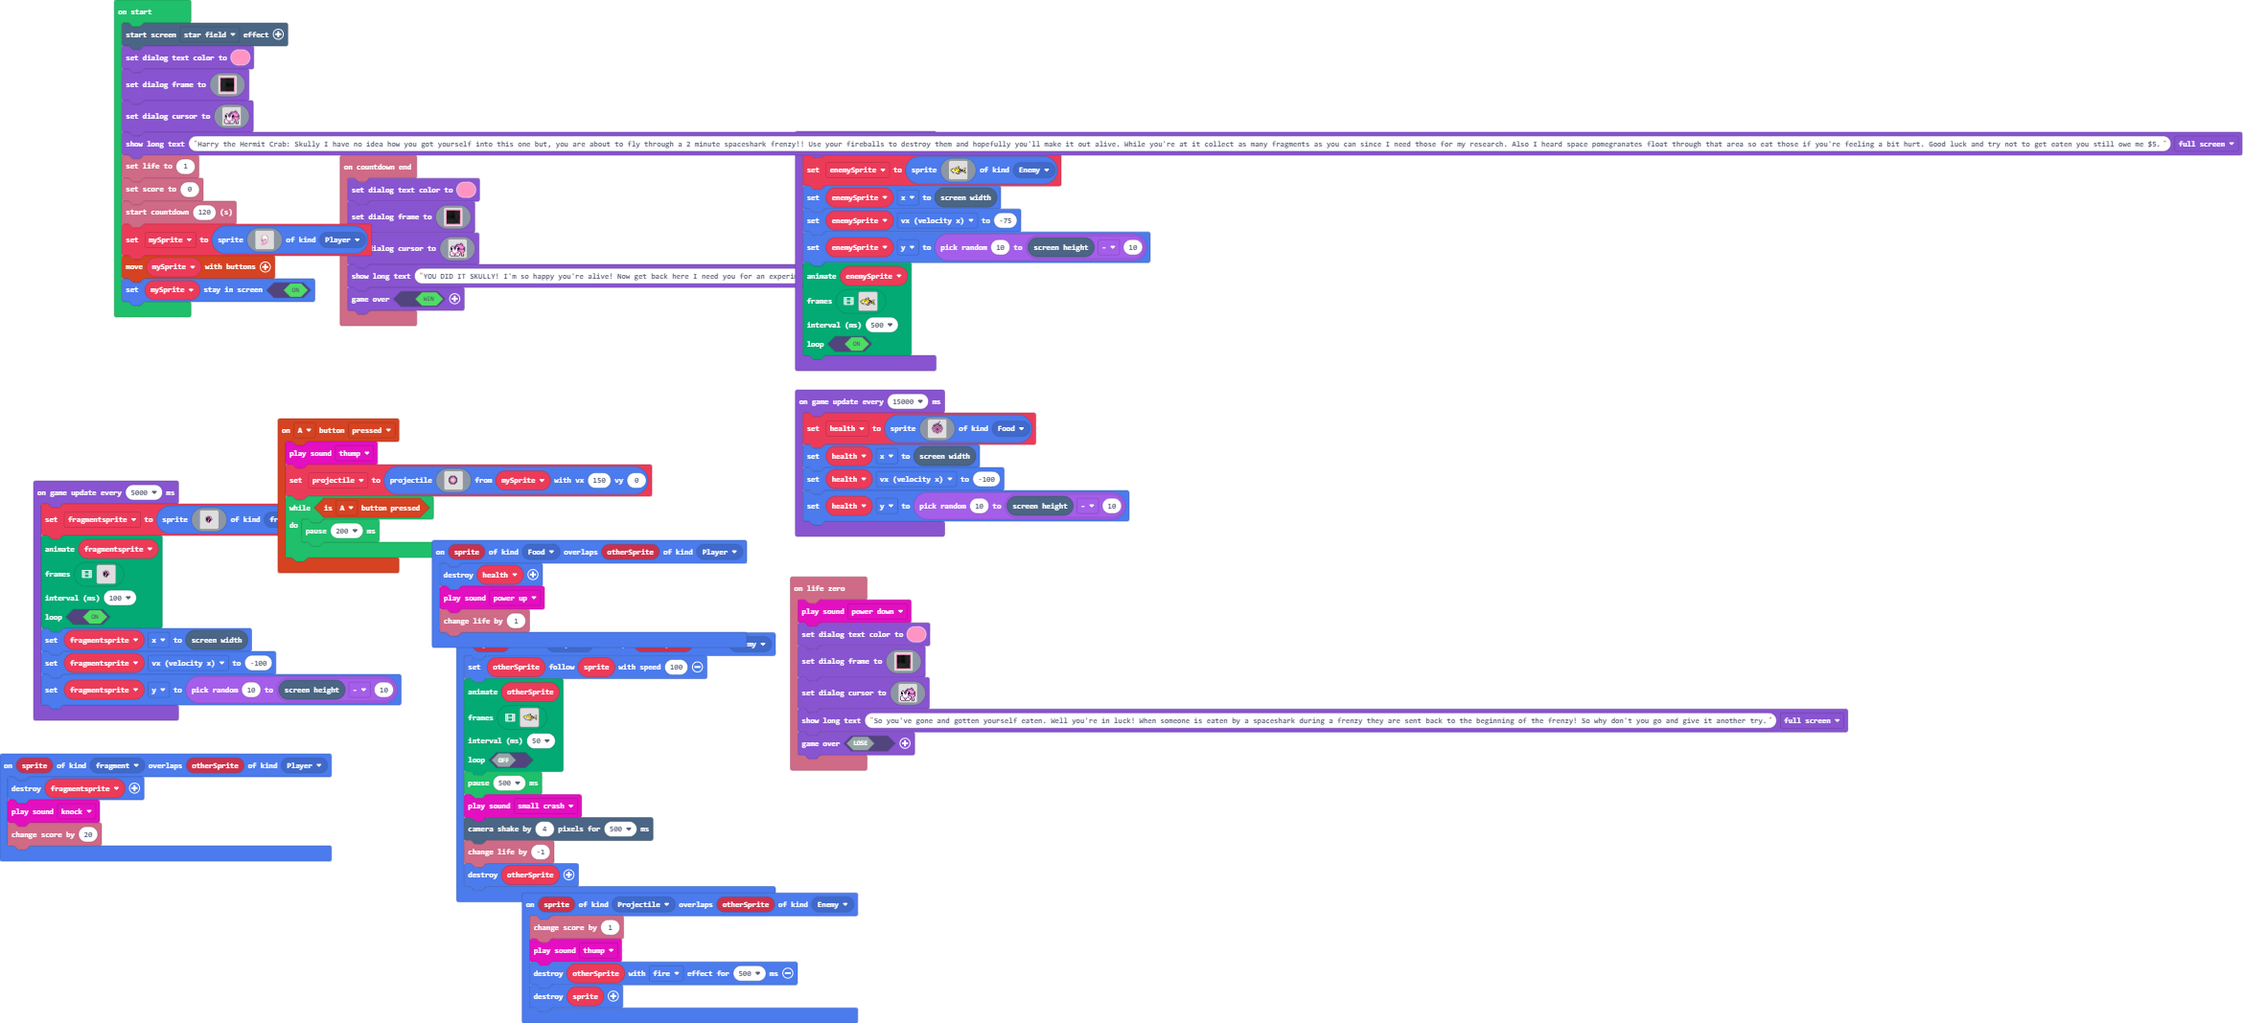
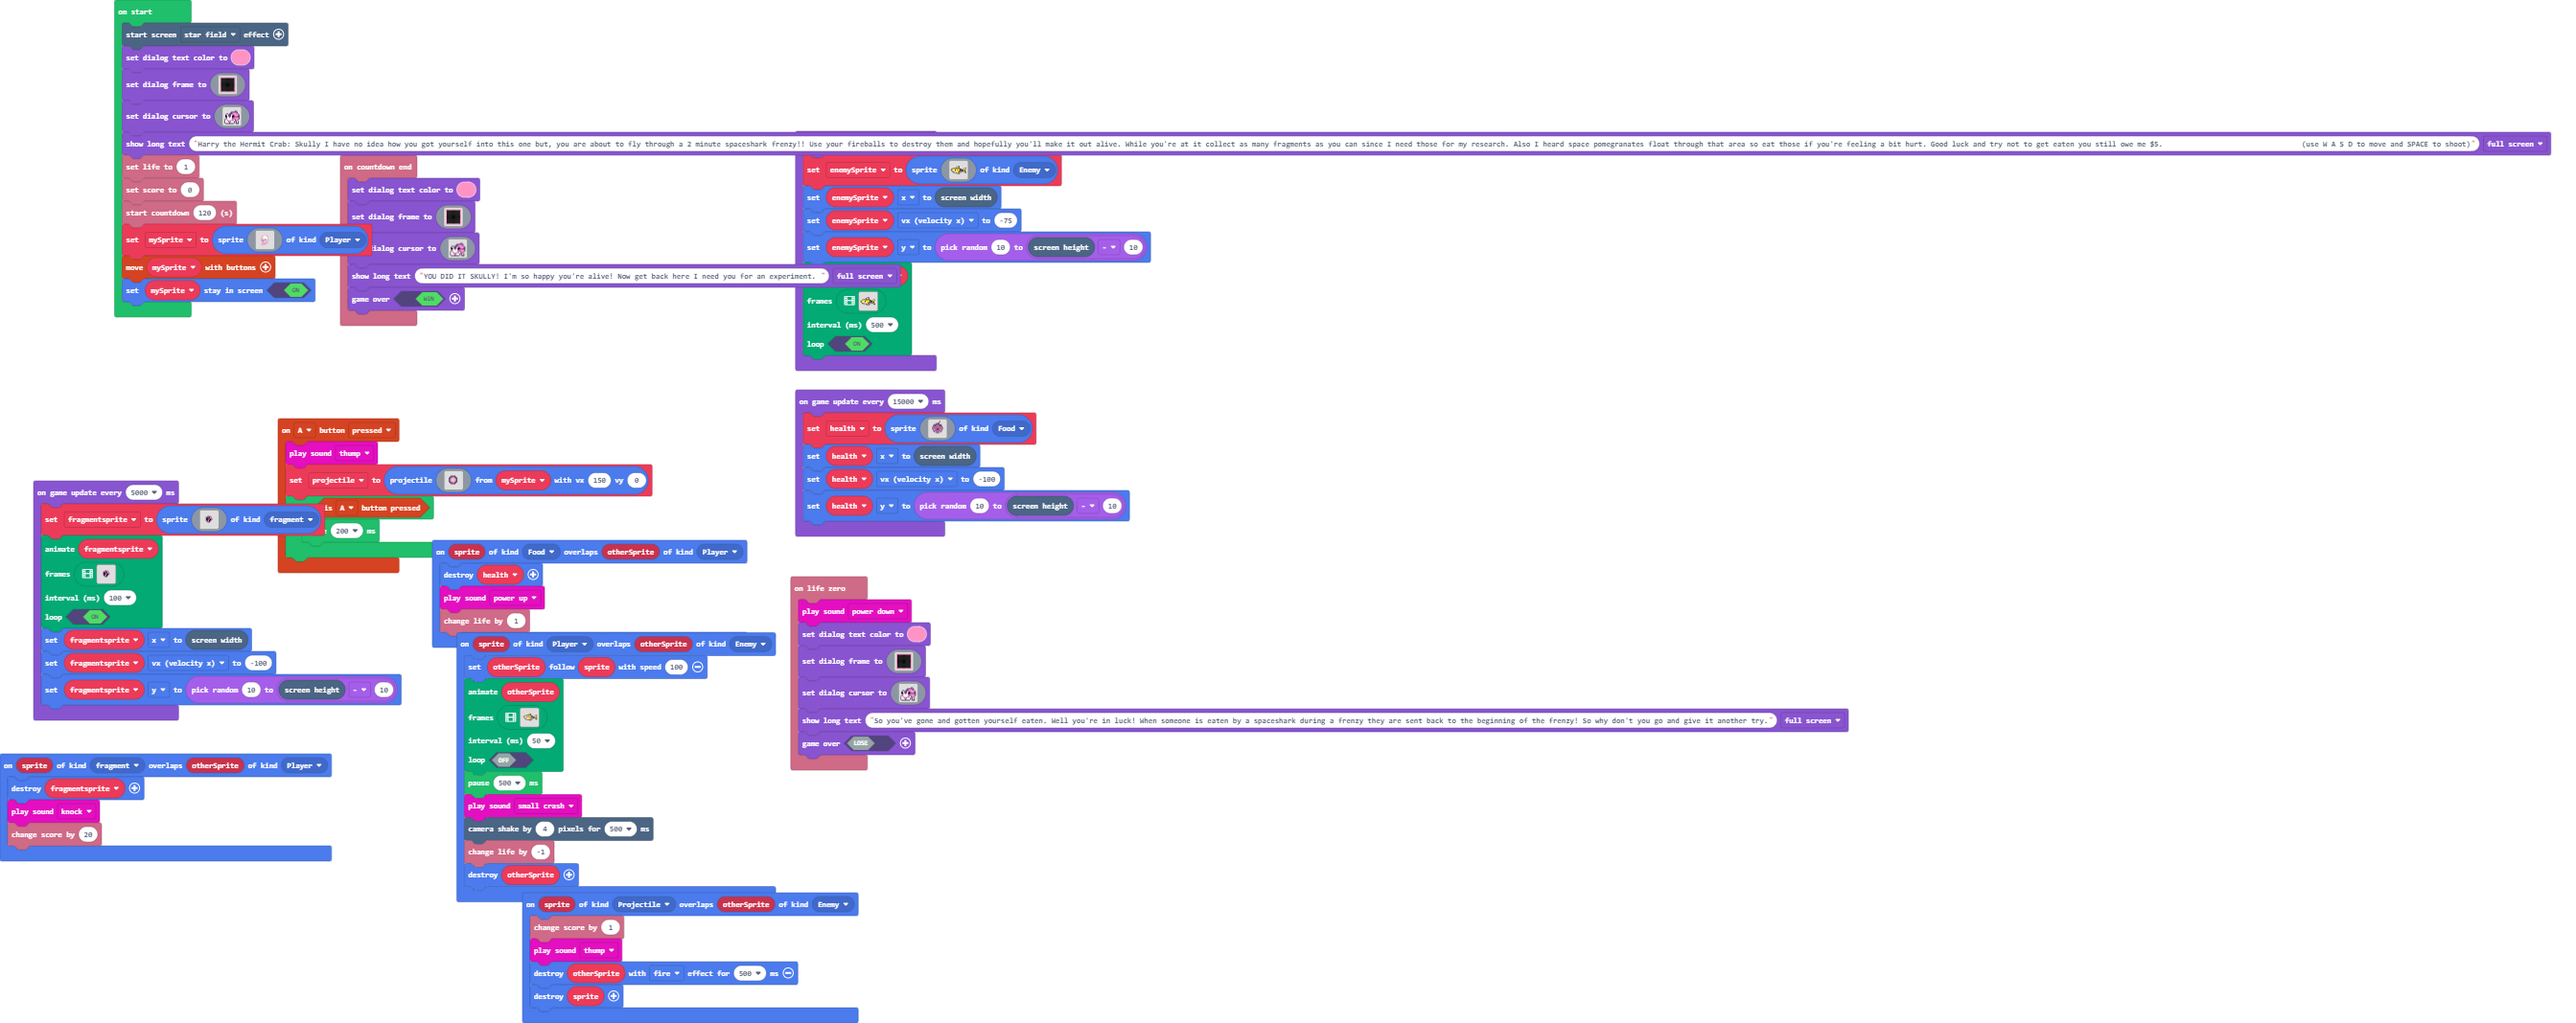
Update main.blocks, main.ts

diff --git a/main.ts b/main.ts
@@ -229,7 +229,7 @@ game.setDialogFrame(img`
     3 3 3 3 3 3 3 3 3 3 3 3 3 3 3 
     `)
 game.setDialogCursor(assets.image`myImage`)
-game.showLongText("Harry the Hermit Crab: Skully I have no idea how you got yourself into this one but, you are about to fly through a 2 minute spaceshark frenzy!! Use your fireballs to destroy them and hopefully you'll make it out alive. While you're at it collect as many fragments as you can since I need those for my research. Also I heard space pomegranates float through that area so eat those if you're feeling a bit hurt. Good luck and try not to get eaten you still owe me $5.", DialogLayout.Full)
+game.showLongText("Harry the Hermit Crab: Skully I have no idea how you got yourself into this one but, you are about to fly through a 2 minute spaceshark frenzy!! Use your fireballs to destroy them and hopefully you'll make it out alive. While you're at it collect as many fragments as you can since I need those for my research. Also I heard space pomegranates float through that area so eat those if you're feeling a bit hurt. Good luck and try not to get eaten you still owe me $5.                                 (use W A S D to move and SPACE to shoot)", DialogLayout.Full)
 info.setLife(1)
 info.setScore(0)
 info.startCountdown(120)
